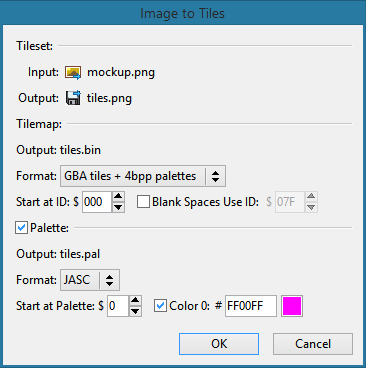
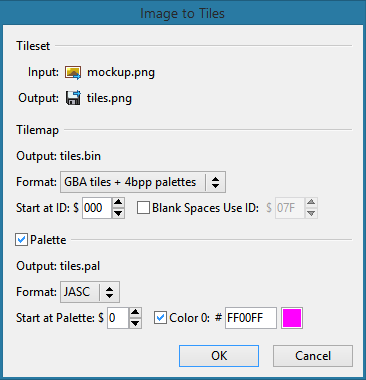
Increase space between Image to Tiles dialog sections

diff --git a/src/option-dialogs.cpp b/src/option-dialogs.cpp
@@ -952,8 +952,8 @@ Image_To_Tiles_Dialog::Palette_Format Image_To_Tiles_Dialog::default_palette_for
 
 void Image_To_Tiles_Dialog::initialize_content() {
 	// Populate content group
-	_tileset_heading = new Label(0, 0, 0, 0, "Tileset:");
-	_tilemap_heading = new Label(0, 0, 0, 0, "Tilemap:");
+	_tileset_heading = new Label(0, 0, 0, 0, "Tileset");
+	_tilemap_heading = new Label(0, 0, 0, 0, "Tilemap");
 	_tileset_spacer = new Spacer(0, 0, 0, 0);
 	_tilemap_spacer = new Spacer(0, 0, 0, 0);
 	_palette_spacer = new Spacer(0, 0, 0, 0);
@@ -968,7 +968,7 @@ void Image_To_Tiles_Dialog::initialize_content() {
 	_start_id = new Default_Hex_Spinner(0, 0, 0, 0, "Start at ID: $");
 	_use_space = new OS_Check_Button(0, 0, 0, 0, "Blank Spaces Use ID: ");
 	_space_id = new Default_Hex_Spinner(0, 0, 0, 0, "$");
-	_palette = new OS_Check_Button(0, 0, 0, 0, "Palette:");
+	_palette = new OS_Check_Button(0, 0, 0, 0, "Palette");
 	_palette_name = new Label(0, 0, 0, 0, "Output: " NO_FILES_DETERMINED_LABEL);
 	_palette_format = new Dropdown(0, 0, 0, 0, "Format:");
 	_start_index_label = new Label(0, 0, 0, 0, "Start at Palette:");
@@ -1024,8 +1024,8 @@ void Image_To_Tiles_Dialog::initialize_content() {
 }
 
 int Image_To_Tiles_Dialog::refresh_content(int ww, int dy) {
-	int wgt_h = 22, win_m = 10, wgt_m = 4;
-	int ch = (wgt_h + wgt_m) * 10 + wgt_h;
+	int wgt_h = 22, win_m = 10, wgt_m = 4, grp_m = 6;
+	int ch = (wgt_h + wgt_m) * 10 + grp_m * 2 + wgt_h;
 	_content->resize(win_m, dy, ww, ch);
 
 	int wgt_w = text_width(_tileset_heading->label(), 4);
@@ -1050,7 +1050,7 @@ int Image_To_Tiles_Dialog::refresh_content(int ww, int dy) {
 	_tileset->resize(wgt_off, dy, wgt_h, wgt_h);
 	wgt_off += _tileset->w();
 	_tileset_name->resize(wgt_off, dy, ww-wgt_w-wgt_h, wgt_h);
-	dy += wgt_h + wgt_m;
+	dy += wgt_h + wgt_m + grp_m;
 
 	wgt_w = text_width(_tilemap_heading->label(), 4);
 	wgt_off = win_m;
@@ -1076,7 +1076,7 @@ int Image_To_Tiles_Dialog::refresh_content(int ww, int dy) {
 	wgt_off += _use_space->w() + text_width(_space_id->label(), 1);
 	wgt_w = std::max(text_width("AAA", 2), text_width("FFF", 2)) + wgt_h / 2 + 4;
 	_space_id->resize(wgt_off, dy, wgt_w, wgt_h);
-	dy += wgt_h + wgt_m;
+	dy += wgt_h + wgt_m + grp_m;
 
 	wgt_w = _palette->labelsize() + 4 + text_width(_palette->label(), 3);
 	wgt_off = win_m;
